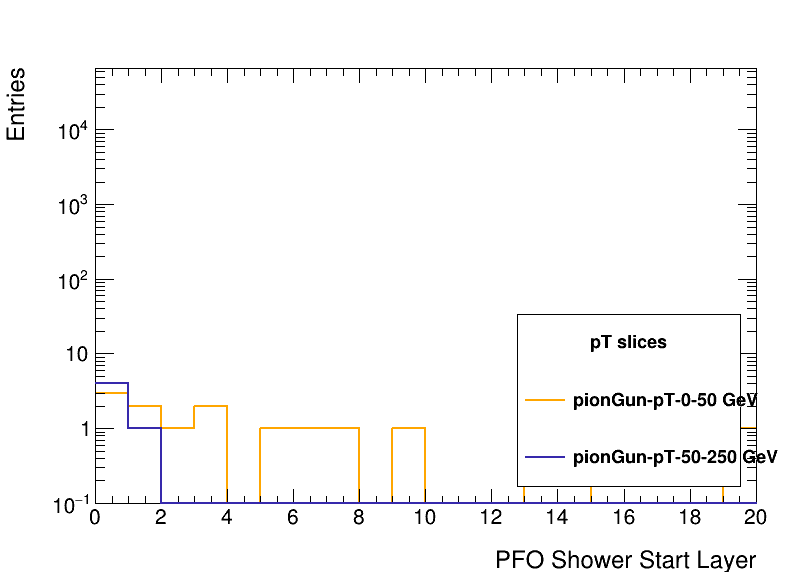
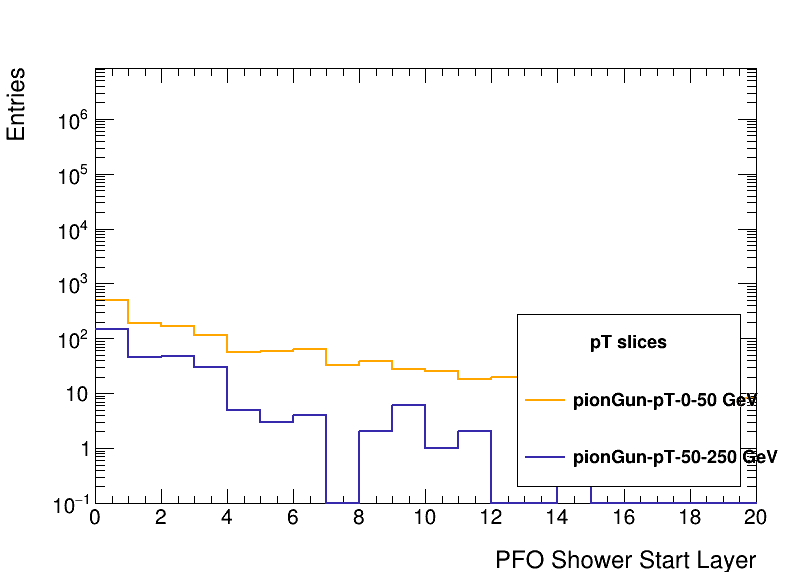
debugging

diff --git a/electronShowerStudies3.py b/electronShowerStudies3.py
@@ -9,11 +9,9 @@ import math
 
 ROOT.gROOT.SetBatch()
 ## not using shower start layer plots from here because theyre wrong
-# Set up some options
-max_events = -1
+max_events = 10
 import os
 samples = glob.glob("/data/fmeloni/DataMuC_MAIA_v0/v5/reco/pionGun*")
-#samples = glob.glob("/data/fmeloni/DataMuC_MAIA_v0/v5/recoBIB/electronGun*")
 #samples = glob.glob("/data/fmeloni/DataMuC_MAIA_v0/v5/reco/electronGun*")
 files = {}
 slices = ["0_50", "50_250", "250_1000", "1000_5000"]
@@ -60,8 +58,6 @@ for s in files:
     if not files[s]:  # Skip empty slices
         continue
     hists[s] = {}
-
-    # Truth and reconstructed electron histograms
     for obj in ["mcp", "mcp_pion", "pion", "pion_match"]:
         for var in variables["pion"]:
             hists[s][f"{obj}_{var}"] = ROOT.TH1F(f"{s}_{obj}_{var}", f"{s}_{obj}_{var}",
@@ -78,48 +74,38 @@ for s in files:
     #hists[s]["lcelectronid_max_inner_layer"] = ROOT.TH1F(f"{s}_lcelectronid_max_inner_layer", f"{s}_lcelectronid_max_inner_layer", 10, 0, 10)
     #hists[s]["lcelectronid_max_energy"] = ROOT.TH1F(f"{s}_lcelectronid_max_energy", f"{s}_lcelectronid_max_energy", 50, 0, 20)
     #hists[s]["lcelectronid_max_profile_start"] = ROOT.TH1F(f"{s}_lcelectronid_max_profile_start", f"{s}_lcelectronid_max_profile_start", 20, 0, 20)
-    #hists[s]["lcpionid_max_profile_discrepancy"] = ROOT.TH1F(f"{s}_lcpionid_max_profile_discrepancy", f"{s}_lcpionid_max_profile_discrepancy", 100, 0, 2)
+    hists[s]["lcpionid_max_profile_discrepancy"] = ROOT.TH1F(f"{s}_lcpionid_max_profile_discrepancy", f"{s}_lcpionid_max_profile_discrepancy", 100, 0, 2)
     #hists[s]["lcelectronid_max_residual_e_over_p"] = ROOT.TH1F(f"{s}_lcelectronid_max_residual_e_over_p", f"{s}_lcelectronid_max_residual_e_over_p", 50, 0, 1)
     
     # E/p analysis histograms
-    hists[s]["electron_E_over_p"] = ROOT.TH1F(f"{s}_electron_E_over_p", f"E/p Distribution {s};E/p;Entries", 100, 0, 3)
-    hists[s]["electron_E_minus_p_over_p"] = ROOT.TH1F(f"{s}_electron_E_minus_p_over_p", f"(E-p)/p Distribution {s};(E-p)/p;Entries", 100, -1, 1)
-    hists[s]["electron_abs_E_minus_p_over_p"] = ROOT.TH1F(f"{s}_electron_abs_E_minus_p_over_p", f"|E-p|/p Distribution {s};|E-p|/p;Entries", 100, 0, 1)
-    hists[s]["track_momentum"] = ROOT.TH1F(f"{s}_track_momentum", f"Track Momentum {s};p [GeV];Entries", 100, 0, 1000)
-    hists[s]["matched_cluster_energy"] = ROOT.TH1F(f"{s}_matched_cluster_energy", f"Matched Cluster Energy {s};E [GeV];Entries", 100, 0, 1000)
-    hists[s]["track_cluster_dR"] = ROOT.TH1F(f"{s}_track_cluster_dR", f"Track-Cluster dR {s};dR;Entries", 50, 0, 0.5)
+    #hists[s]["electron_E_over_p"] = ROOT.TH1F(f"{s}_electron_E_over_p", f"E/p Distribution {s};E/p;Entries", 100, 0, 3)
+    #hists[s]["electron_E_minus_p_over_p"] = ROOT.TH1F(f"{s}_electron_E_minus_p_over_p", f"(E-p)/p Distribution {s};(E-p)/p;Entries", 100, -1, 1)
+    #hists[s]["electron_abs_E_minus_p_over_p"] = ROOT.TH1F(f"{s}_electron_abs_E_minus_p_over_p", f"|E-p|/p Distribution {s};|E-p|/p;Entries", 100, 0, 1)
+    #hists[s]["track_momentum"] = ROOT.TH1F(f"{s}_track_momentum", f"Track Momentum {s};p [GeV];Entries", 100, 0, 1000)
+    #hists[s]["matched_cluster_energy"] = ROOT.TH1F(f"{s}_matched_cluster_energy", f"Matched Cluster Energy {s};E [GeV];Entries", 100, 0, 1000)
+    #hists[s]["track_cluster_dR"] = ROOT.TH1F(f"{s}_track_cluster_dR", f"Track-Cluster dR {s};dR;Entries", 50, 0, 0.5)
 
 # Set up 2D histograms
-hists2d = {}
-for s in files:
-    if not files[s]:  # Skip empty slices
-        continue
-    hists2d[s] = {}
+#hists2d = {}
+#for s in files:
+    #if not files[s]:  # Skip empty slices
+        #continue
+    #hists2d[s] = {}
 
     # Cluster vs truth comparisons
-    hists2d[s]["cluster_E_v_mcp_E"] = ROOT.TH2F(f"cluster_E_v_mcp_E_{s}", f"cluster_E_v_mcp_E_{s}", 30, 0, 1000, 30, 0, 1000)
-    hists2d[s]["cluster_eta_v_mcp_eta"] = ROOT.TH2F(f"cluster_eta_v_mcp_eta_{s}", f"cluster_eta_v_mcp_eta_{s}", 30, -3, 3, 30, -3, 3)
+    #hists2d[s]["cluster_E_v_mcp_E"] = ROOT.TH2F(f"cluster_E_v_mcp_E_{s}", f"cluster_E_v_mcp_E_{s}", 30, 0, 1000, 30, 0, 1000)
+    #hists2d[s]["cluster_eta_v_mcp_eta"] = ROOT.TH2F(f"cluster_eta_v_mcp_eta_{s}", f"cluster_eta_v_mcp_eta_{s}", 30, -3, 3, 30, -3, 3)
 
     # LCElectronId parameter correlations
-    hists2d[s]["shower_start_layer_v_profile_discrepancy"] = ROOT.TH2F(f"shower_start_layer_v_profile_discrepancy_{s}","Shower Start Layer vs Profile Discrepancy;Shower Start Layer;Profile Discrepancy",
-    20, 0, 20, 100, 0, 2)
+    #hists2d[s]["shower_start_layer_v_profile_discrepancy"] = ROOT.TH2F(f"shower_start_layer_v_profile_discrepancy_{s}","Shower Start Layer vs Profile Discrepancy;Shower Start Layer;Profile Discrepancy",20, 0, 20, 100, 0, 2)
 
-    hists2d[s]["E_over_p_v_profile_discrepancy"] = ROOT.TH2F(f"E_over_p_v_profile_discrepancy_{s}", f"E_over_p_v_profile_discrepancy_{s}", 50, 0, 2, 50, 0, 1)
+    #hists2d[s]["E_over_p_v_profile_discrepancy"] = ROOT.TH2F(f"E_over_p_v_profile_discrepancy_{s}", f"E_over_p_v_profile_discrepancy_{s}", 50, 0, 2, 50, 0, 1)
     
-    max_y = 10  # default
-    if "1000_5000" in s:
-        max_y = 100
-    elif "250_1000" in s:
-        max_y = 50
-    elif "50_250" in s:
-        max_y = 20
-    hists2d[s]["shower_start_layer_v_max_cell_energy"] = ROOT.TH2F(f"shower_start_layer_v_max_cell_energy_{s}", f"shower_start_layer_v_max_cell_energy_{s}", 20, 0, 20, 50, 0, 10)
-    hists2d[s]["cluster_rms_width_v_n_hits"] = ROOT.TH2F(f"cluster_rms_width_v_n_hits_{s}", f"cluster_rms_width_v_n_hits_{s}", 50, 0, 200, 50, 0, 100)
-    
+   
     # E/p analysis 2D histograms
-    hists2d[s]["E_vs_p"] = ROOT.TH2F(f"E_vs_p_{s}", f"Cluster Energy vs Track Momentum {s};Track p [GeV];Cluster E [GeV]", 50, 0, 1000, 50, 0, 1000)
-    hists2d[s]["E_over_p_vs_energy"] = ROOT.TH2F(f"E_over_p_vs_energy_{s}", f"E/p vs Energy {s};True Energy [GeV];E/p", 50, 0, 1000, 50, 0, 3)
-    hists2d[s]["E_over_p_vs_profile_discrepancy"] = ROOT.TH2F(f"E_over_p_vs_profile_discrepancy_{s}", f"E/p vs Profile Discrepancy {s};E/p;Profile Discrepancy", 50, 0, 3, 50, 0, 2)
+    #hists2d[s]["E_vs_p"] = ROOT.TH2F(f"E_vs_p_{s}", f"Cluster Energy vs Track Momentum {s};Track p [GeV];Cluster E [GeV]", 50, 0, 1000, 50, 0, 1000)
+    #hists2d[s]["E_over_p_vs_energy"] = ROOT.TH2F(f"E_over_p_vs_energy_{s}", f"E/p vs Energy {s};True Energy [GeV];E/p", 50, 0, 1000, 50, 0, 3)
+    #hists2d[s]["E_over_p_vs_profile_discrepancy"] = ROOT.TH2F(f"E_over_p_vs_profile_discrepancy_{s}", f"E/p vs Profile Discrepancy {s};E/p;Profile Discrepancy", 50, 0, 3, 50, 0, 2)
 
 # PANDORA-STYLE PROFILE DISCREPANCY FUNCTION (ONLY)
 def get_profile_discrepancy_pandora_style(energy_by_layer, total_energy, energy=None, num_layers=50, X0_per_layer=0.6286):
@@ -180,21 +166,6 @@ def isMatched(tlv1, tlv2, dR_cut=0.1):
     if tlv1.DeltaR(tlv2) < dR_cut:
         return True
     return False
-
-def calculate_rms_width(hit_positions, hit_energies, center):
-    if len(hit_positions) == 0:
-        return 0.0
-
-    total_energy = sum(hit_energies)
-    if total_energy == 0:
-        return 0.0
-
-    weighted_r_squared = 0.0
-    for i, pos in enumerate(hit_positions):
-        r_squared = (pos[0] - center[0])**2 + (pos[1] - center[1])**2
-        weighted_r_squared += hit_energies[i] * r_squared
-
-    return sqrt(weighted_r_squared / total_energy)
 
 def find_shower_start_layer_absolute(energy_by_layer, absolute_threshold_gev=1.0):
     if not energy_by_layer:
@@ -448,13 +419,6 @@ for slice_name in files:
         if max_events > 0 and file_count >= max_events:
             break
 
-        try:
-            reader.open(f)
-        except Exception as e:
-            print(f"  Error opening file {f}: {e}")
-            continue
-            
-        # Loop over events in this file
         for ievt, event in enumerate(reader):
 
             # Reset variables for this event

diff --git a/electronShowerStudies2.py b/electronShowerStudies2.py
@@ -10,7 +10,7 @@ import plotHelper
 
 ROOT.gROOT.SetBatch()
 
-max_events = 10
+max_events = -1
 import os
 
 samples = glob.glob("/data/fmeloni/DataMuC_MAIA_v0/v5/reco/pionGun*")
@@ -72,7 +72,7 @@ for s in files:
     #hists[s]["lcpionid_max_profile_start"] = ROOT.TH1F(f"{s}_lcelectronid_max_profile_start", f"{s}_lcelectronid_max_profile_start", 20, 0, 20)
     hists[s]["lcpionid_max_profile_discrepancy"] = ROOT.TH1F(f"{s}_lcpionid_max_profile_discrepancy", f"{s}_lcpionid_max_profile_discrepancy", 100, 0, 2)
     #hists[s]["lcpionid_max_residual_e_over_p"] = ROOT.TH1F(f"{s}_lcelectronid_max_residual_e_over_p", f"{s}_lcelectronid_max_residual_e_over_p", 50, 0, 1)
-
+    hists[slice_name]["pion_profile_discrepancy"] = ROOT.TH1F(
 # Matching function
 def isMatched(tlv1, tlv2, dR_cut=0.1):
     if tlv1.DeltaR(tlv2) < dR_cut:
@@ -463,18 +463,18 @@ if cluster_hists_nhits:
 if cluster_hists_r:
     plotHistogramsSimple(cluster_hists_r, "plots/cluster_r.png", "Cluster Radial Position [mm]", "Entries")
 
-lcelectronid_hists = {}
+lcpionid_hists = {}
 for param in ["shower_start_layer", "max_cell_energy", "profile_discrepancy", "cluster_cone_energy"]:
-    lcelectronid_hists[param] = {}
+    lcpionid_hists[param] = {}
     for s in hists:
-        if f"electron_{param}" in hists[s]:
-            lcelectronid_hists[param][s] = hists[s][f"electron_{param}"]
+        if f"pion_{param}" in hists[s]:
+            lcpionid_hists[param][s] = hists[s][f"pion_{param}"]
 
-    if lcelectronid_hists[param]:
+    if lcpionid_hists[param]:
         if param == "shower_start_layer":
             plotHelper.plotHistograms( 
-                lcelectronid_hists[param],
-                f"plots/lcelectronid_{param}.png",
+                lcpionid_hists[param],
+                f"plots/lcpionid_{param}.png",
                 "Shower Start Layer",
                 "Fraction of MC Electrons",
                 False,
@@ -484,7 +484,7 @@ for param in ["shower_start_layer", "max_cell_energy", "profile_discrepancy", "c
             )   
 
         else:
-            plotHistogramsSimple(lcelectronid_hists[param], f"plots/lcelectronid_{param}.png",
+            plotHistogramsSimple(lcpionid_hists[param], f"plots/lcpionid_{param}.png",
                           param.replace("_", " ").title(), "Entries")
 
 pfo_shower_hists = {}
